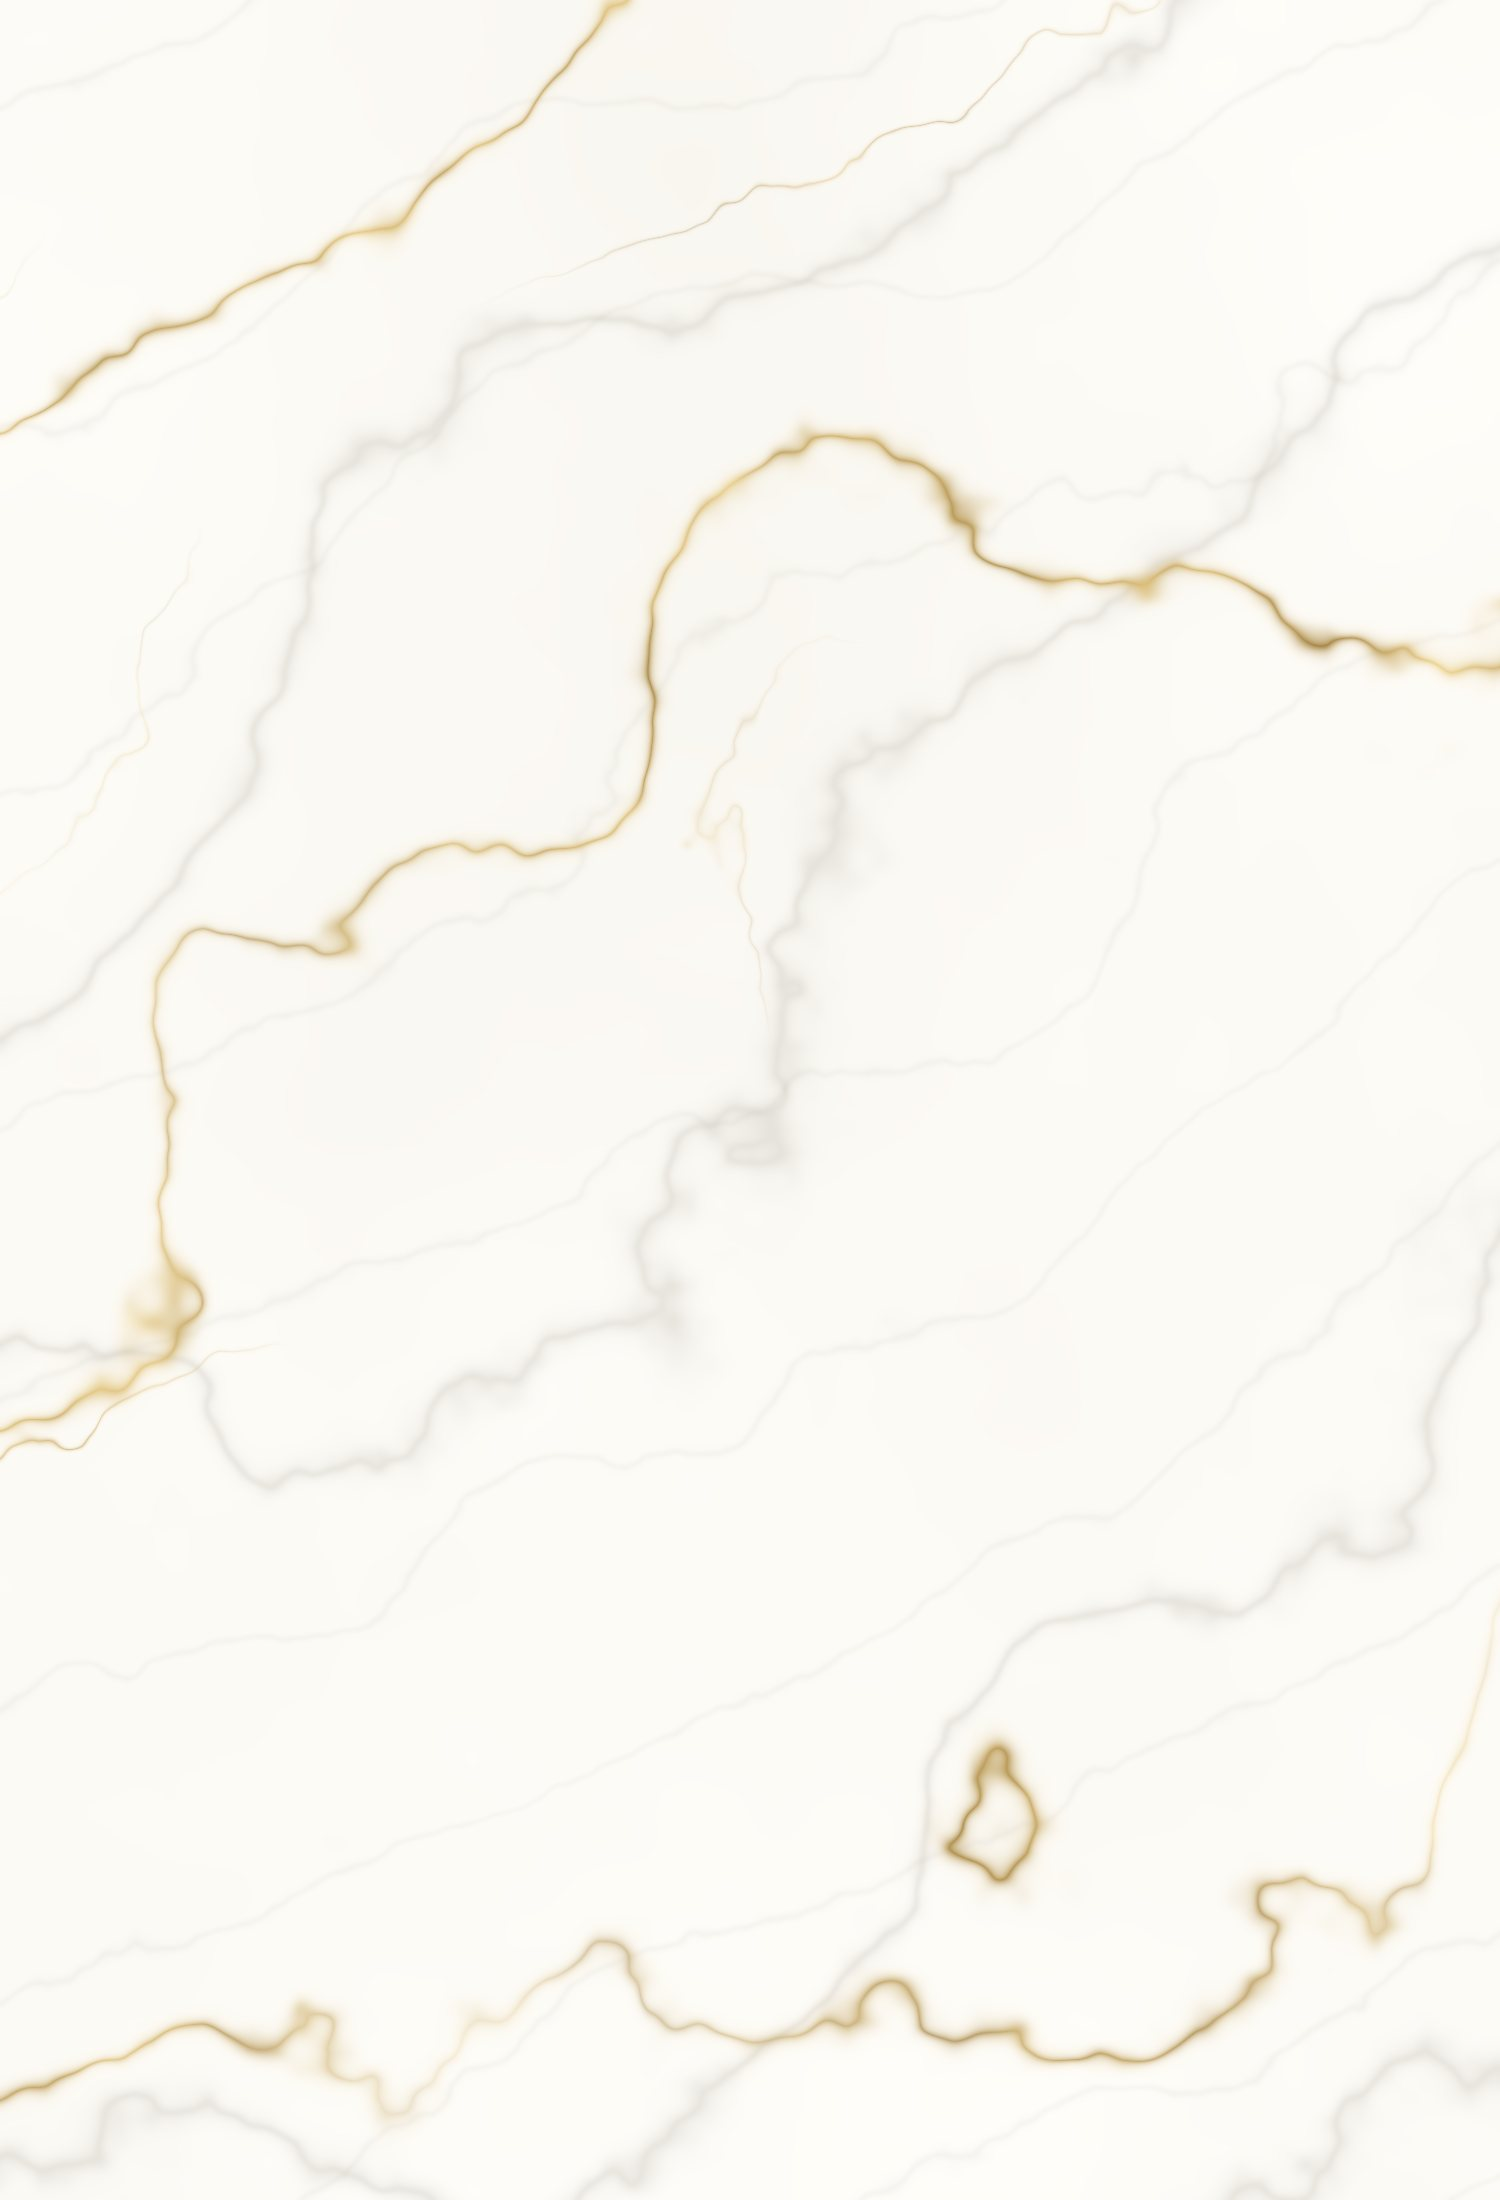
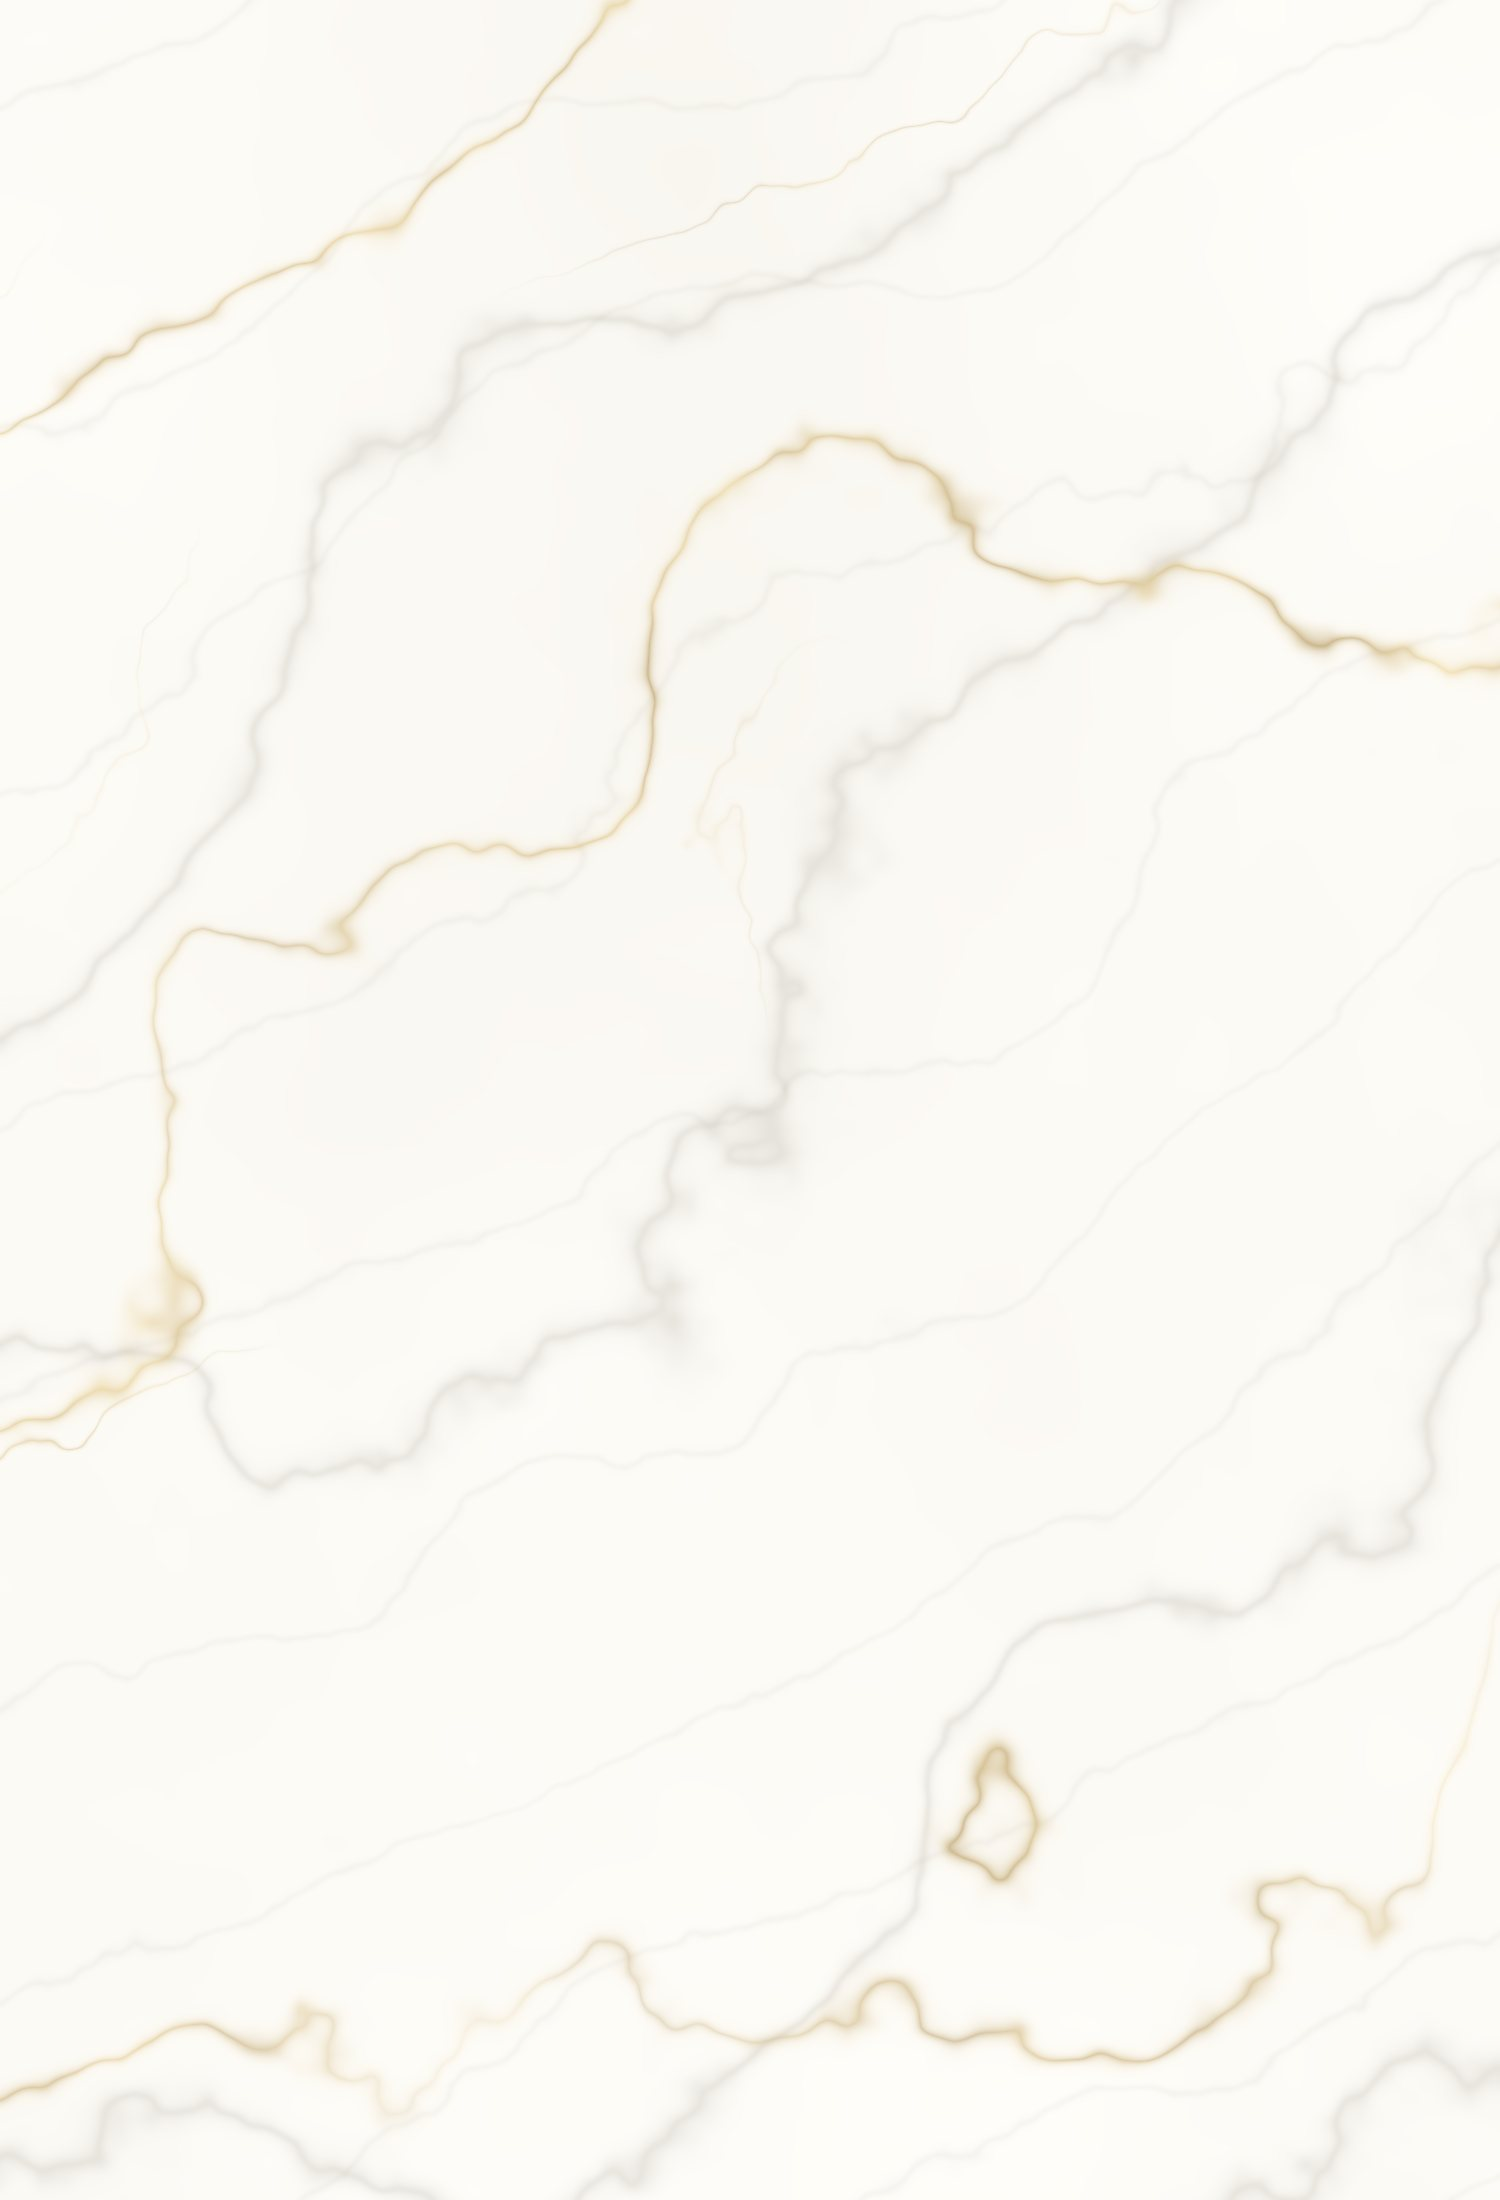
Soften gold in marble, liquid-glass treatment for all cards, buttons and header
Claude-Session: https://claude.ai/code/session_016ykoXiU1MAuK5vSmsWYxZV

diff --git a/src/styles.css b/src/styles.css
@@ -716,3 +716,76 @@ body::after {
 .finish-next-q { margin: 6px 0 20px; font-size: 18px; color: var(--ink-2); }
 .finish-rest { margin-top: 18px; }
 @media (prefers-reduced-motion: reduce) { .finish-seal, .btn-primary::after, .welcome-cta::after { animation: none; } }
+
+/* ═════════ זכוכית נוזלית (3.10.2026) ═════════ */
+:root {
+  --lg-fill: linear-gradient(150deg, rgba(255, 255, 255, 0.55) 0%, rgba(255, 255, 255, 0.26) 55%, rgba(255, 252, 244, 0.4) 100%);
+  --lg-sheen: radial-gradient(130% 70% at 18% -10%, rgba(255, 255, 255, 0.85) 0%, rgba(255, 255, 255, 0) 55%);
+  --lg-edge: inset 0 1px 0 rgba(255, 255, 255, 0.95), inset 0 -1px 0 rgba(255, 255, 255, 0.35), inset 1px 0 0 rgba(255, 255, 255, 0.5), inset -1px 0 0 rgba(255, 255, 255, 0.5), inset 0 0 24px rgba(255, 255, 255, 0.35);
+  --lg-shadow: 0 0 0 0.5px rgba(168, 131, 42, 0.38), 0 20px 44px -22px rgba(70, 52, 12, 0.35), 0 2px 8px rgba(70, 52, 12, 0.05);
+}
+.b-pause, .b-group, .reflection, .crystal, .ch, .b-tradition, .b-blindspot, .tool-why, .inq, .finish-next, .b-wink, .inq-index a {
+  background: var(--lg-sheen), var(--lg-fill);
+  border: 1px solid rgba(255, 255, 255, 0.7);
+  backdrop-filter: blur(22px) saturate(1.7) brightness(1.04);
+  -webkit-backdrop-filter: blur(22px) saturate(1.7) brightness(1.04);
+  box-shadow: var(--lg-edge), var(--lg-shadow);
+}
+.b-wink { border-right: 1px solid rgba(255, 255, 255, 0.7); }
+.ch.is-current {
+  background: var(--lg-sheen), linear-gradient(150deg, rgba(255, 255, 255, 0.8), rgba(255, 255, 255, 0.5));
+  box-shadow: var(--lg-edge), 0 0 0 1.5px rgba(0, 73, 47, 0.55), 0 22px 44px -20px rgba(0, 73, 47, 0.4);
+}
+.ch.is-locked {
+  background: linear-gradient(150deg, rgba(255, 255, 255, 0.32), rgba(255, 255, 255, 0.16));
+  border-color: rgba(255, 255, 255, 0.5);
+  box-shadow: inset 0 1px 0 rgba(255, 255, 255, 0.7), 0 0 0 0.5px rgba(168, 131, 42, 0.2);
+}
+.b-echo {
+  background: var(--lg-sheen), linear-gradient(150deg, rgba(222, 242, 230, 0.6), rgba(222, 242, 230, 0.32));
+  border: 1px solid rgba(255, 255, 255, 0.7);
+  backdrop-filter: blur(22px) saturate(1.7);
+  -webkit-backdrop-filter: blur(22px) saturate(1.7);
+  box-shadow: var(--lg-edge), 0 0 0 0.5px rgba(0, 73, 47, 0.3), 0 16px 36px -22px rgba(0, 73, 47, 0.35);
+}
+.b-pause, .crystal { outline: 1px solid rgba(255, 255, 255, 0.55); outline-offset: 6px; }
+textarea, input {
+  background: rgba(255, 255, 255, 0.5);
+  border: 1px solid rgba(255, 255, 255, 0.8);
+  box-shadow: inset 0 2px 6px rgba(70, 52, 12, 0.08), 0 0 0 0.5px rgba(168, 131, 42, 0.3);
+  backdrop-filter: blur(10px);
+  -webkit-backdrop-filter: blur(10px);
+}
+/* כפתורים: אמרלד מזוגג */
+.btn-primary, .welcome-cta {
+  background:
+    linear-gradient(180deg, rgba(255, 255, 255, 0.28) 0%, rgba(255, 255, 255, 0.06) 48%, rgba(255, 255, 255, 0) 52%),
+    linear-gradient(160deg, rgba(0, 104, 64, 0.92), rgba(0, 73, 47, 0.92) 50%, rgba(2, 42, 28, 0.94));
+  border: 1px solid rgba(255, 255, 255, 0.35);
+  backdrop-filter: blur(12px) saturate(1.5);
+  -webkit-backdrop-filter: blur(12px) saturate(1.5);
+  box-shadow: inset 0 1px 0 rgba(255, 255, 255, 0.5), inset 0 -2px 6px rgba(0, 0, 0, 0.25), 0 0 0 0.5px rgba(233, 207, 134, 0.6), 0 18px 36px -14px rgba(0, 50, 32, 0.55);
+}
+.btn-ghost {
+  background: var(--lg-sheen), var(--lg-fill);
+  border: 1px solid rgba(255, 255, 255, 0.75);
+  backdrop-filter: blur(16px) saturate(1.6);
+  -webkit-backdrop-filter: blur(16px) saturate(1.6);
+  box-shadow: var(--lg-edge), 0 0 0 0.5px rgba(168, 131, 42, 0.45), 0 10px 24px -14px rgba(70, 52, 12, 0.35);
+}
+/* סרגל עליון: אמרלד שקוף */
+.topbar {
+  background: linear-gradient(180deg, rgba(4, 56, 42, 0.9), rgba(2, 38, 25, 0.86));
+  backdrop-filter: blur(24px) saturate(1.8);
+  -webkit-backdrop-filter: blur(24px) saturate(1.8);
+  box-shadow: inset 0 1px 0 rgba(255, 255, 255, 0.18), 0 1px 0 rgba(233, 207, 134, 0.55), 0 14px 30px rgba(2, 30, 20, 0.15);
+}
+.topbar-nav a.is-active { background: rgba(255, 255, 255, 0.1); box-shadow: inset 0 1px 0 rgba(255, 255, 255, 0.25), inset 0 0 0 1px rgba(233, 207, 134, 0.55); }
+/* מפת המעגלים: זכוכית ירוקה */
+.journey-map, .finish-map {
+  background: radial-gradient(120% 60% at 20% 0%, rgba(255, 255, 255, 0.14), rgba(255, 255, 255, 0) 50%), radial-gradient(90% 70% at 50% 40%, rgba(13, 90, 61, 0.94) 0%, rgba(3, 58, 38, 0.95) 55%, rgba(1, 31, 20, 0.96) 100%);
+  border: 1px solid rgba(255, 255, 255, 0.22);
+  box-shadow: inset 0 1px 0 rgba(255, 255, 255, 0.3), 0 0 0 0.5px rgba(233, 207, 134, 0.6), 0 30px 60px -30px rgba(1, 31, 20, 0.7);
+  backdrop-filter: blur(18px);
+  -webkit-backdrop-filter: blur(18px);
+}
